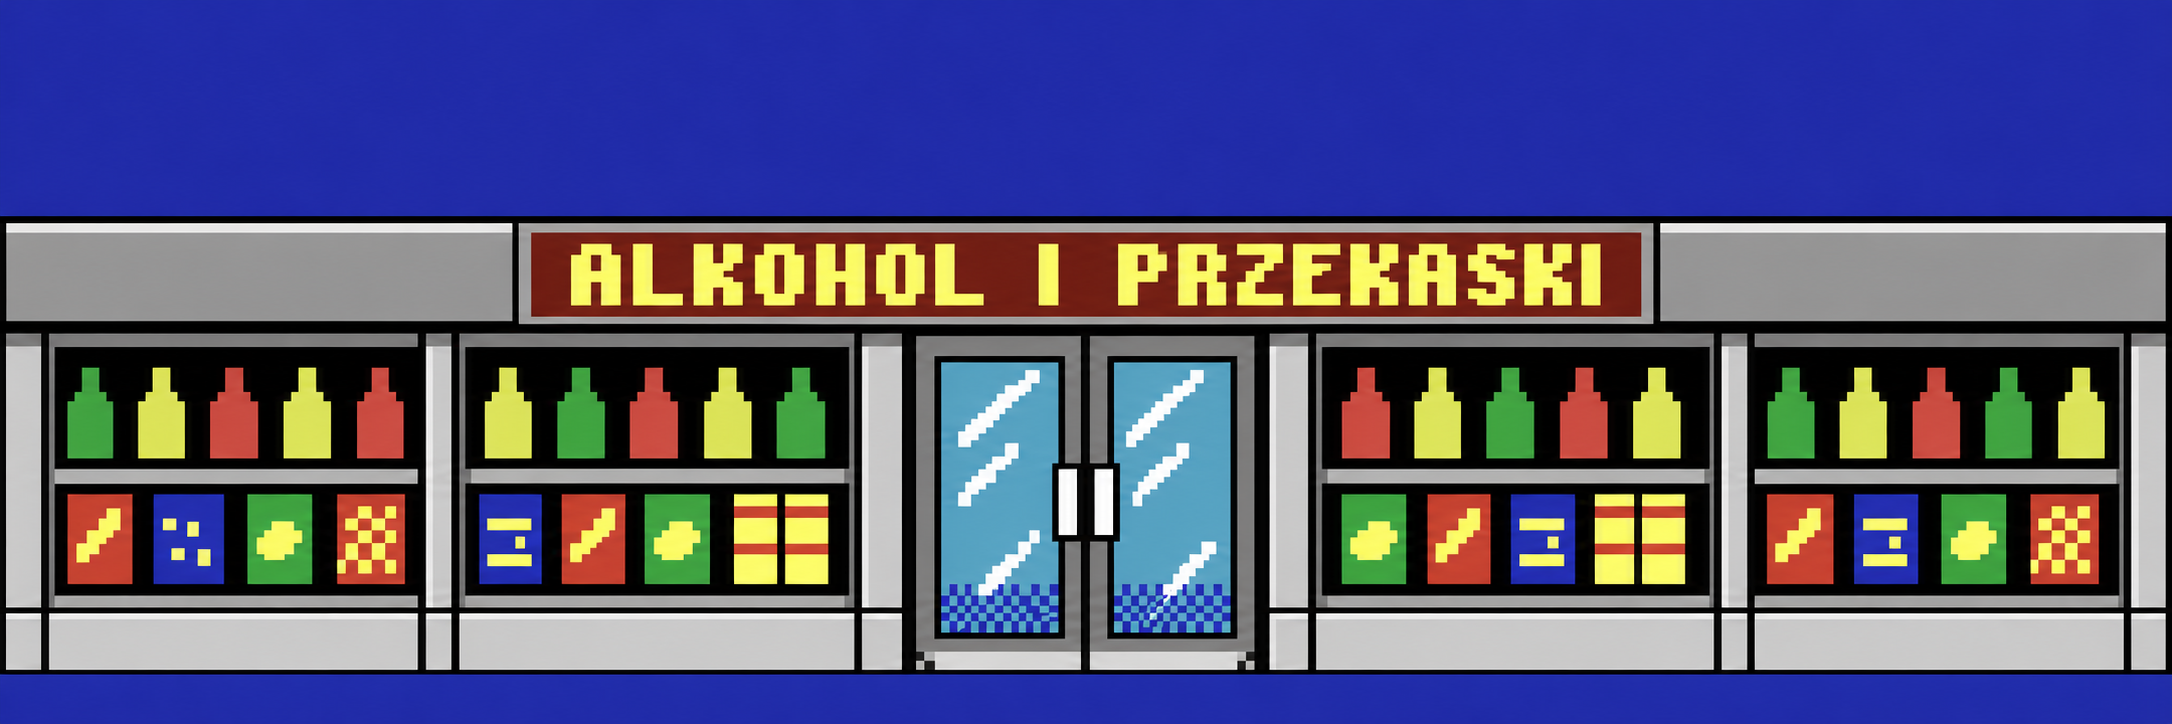
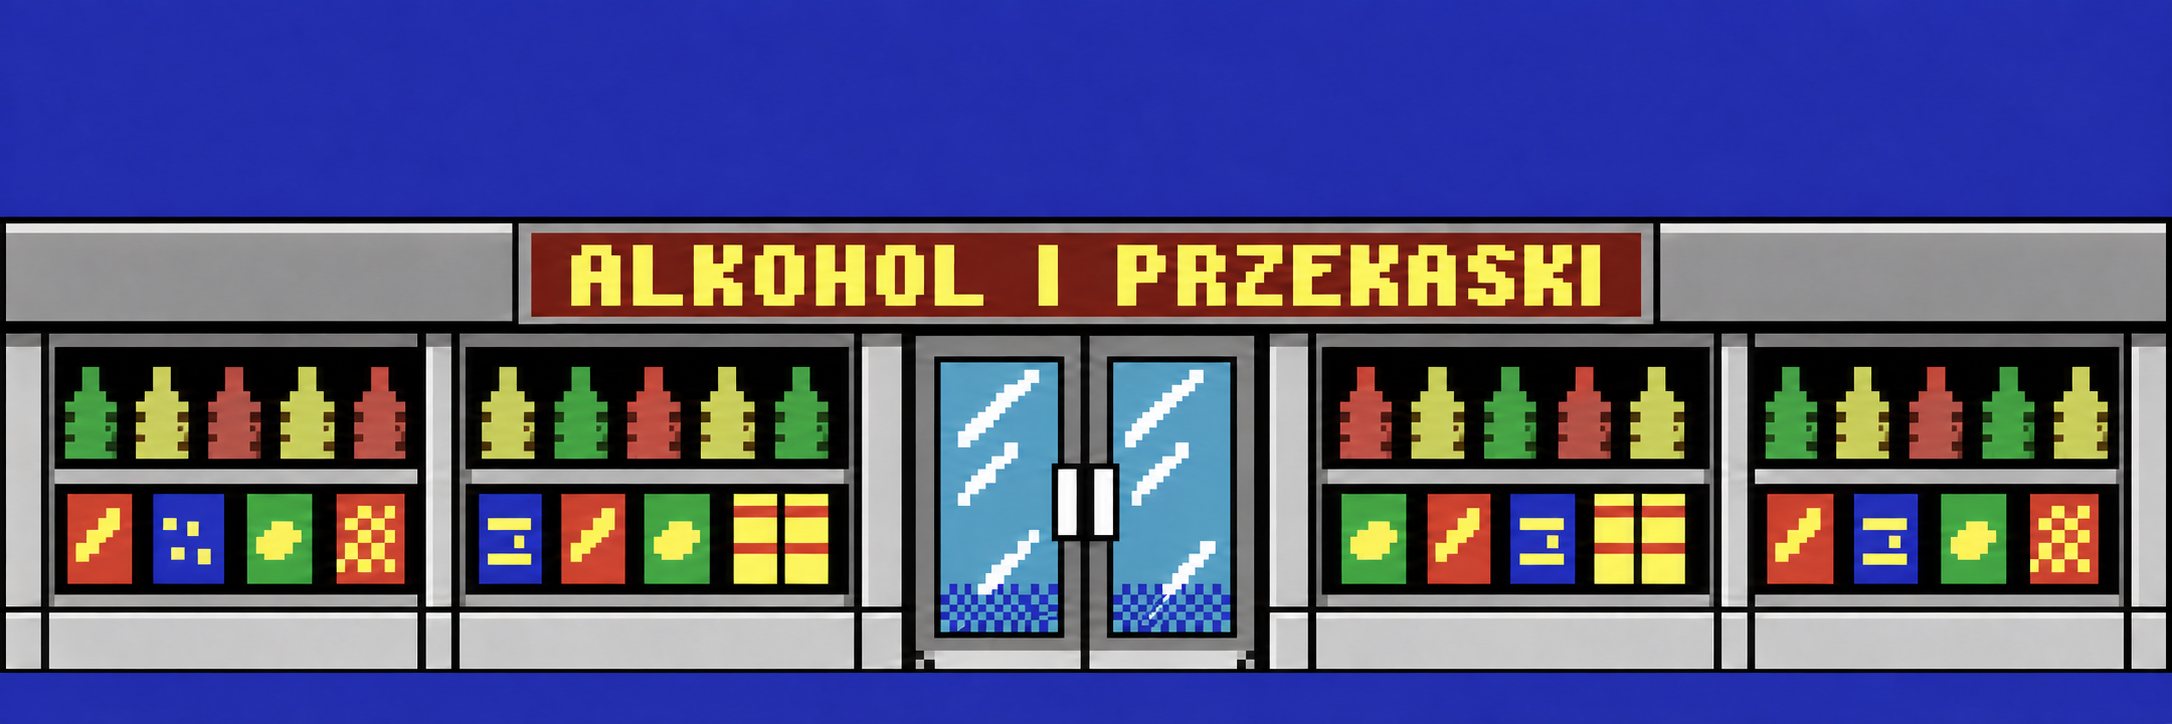
Fill the window and shade shop bottle edges
Remove the C64 border and letterbox margins.
Keep a 200-pixel raster height with the board aspect.
Map Gum and steering to the full viewport.
Add alternating dark pixels only at bottle sides.

diff --git a/Docs/ClassMap.html b/Docs/ClassMap.html
@@ -3,14 +3,14 @@
 <title>DUI — mapa klas</title>
 <style>body{font:16px/1.6 system-ui;max-width:1080px;margin:48px auto;padding:0 24px;color:#172338;background:#f6f8fa}a{color:#174ca0}table{border-collapse:collapse;width:100%;background:white}th,td{text-align:left;vertical-align:top;padding:12px 16px;border:1px solid #d9e0e8}code{background:#e6edf4;padding:2px 5px}h1,h2{line-height:1.25}.flow{background:#e6edf4;padding:20px;border-radius:8px}</style>
 <h1>DUI — mapa klas i przepływów</h1>
-<p>Aktualny stan: edukacyjna gra z płynnie skręcającą kolumną radiowozów za czerwonym autem gracza, podskakujących na krawężnikach, pulsującymi butelkami piwa i rozpryskiem piany na parkingu pod sklepem, bez menu głównego. Oprawa C64: 320×200, 16 kolorów i dwukolorowe wzory w teksturach. Działający host DesktopGL,
+<p>Aktualny stan: edukacyjna gra z płynnie skręcającą kolumną radiowozów za czerwonym autem gracza, podskakujących na krawężnikach, pulsującymi butelkami piwa i rozpryskiem piany na parkingu pod sklepem, bez menu głównego. Oprawa C64: 356×200, 16 kolorów i dwukolorowe wzory w teksturach. Działający host DesktopGL,
 wspólne źródła i zasoby, podstawy wejścia dotykowego. Hosty Android/iOS nie są jeszcze dodane.</p>
 <h2>Start i własność stanu</h2>
 <p class="flow"><a href="../DUI.Desktop/Program.cs">Program</a> →
 <a href="#DuiGame">DuiGame</a> → <a href="#Core">Core.ChangeScene</a> →
 <a href="#GameScene">GameScene.Initialize</a> → plansza i rozgrywka.</p>
 <p>Host wybiera backend MonoGame. <code>DUI.Game.projitems</code> włącza wspólne źródła
-oraz content do hosta. Core posiada scenę i usługi. DuiGame posiada C64Renderer i zwalnia jego dwa bufory 320×200; efekt palety należy do ContentManager gry. GameScene posiada stan sesji,
+oraz content do hosta. Core posiada scenę i usługi. DuiGame posiada C64Renderer i zwalnia jego dwa bufory 356×200; efekt palety należy do ContentManager gry. GameScene posiada stan sesji,
 wynik gry w promilach (decimal), ParkingLot, CarConvoy, BeerBottle, BeerBurst i UI. ParkingLot posiada mapę kafelkową, witrynę, ParkingGeometry i geometrię trawników; tekstury zwalnia ContentManager sceny. ConvoyMovement posiada kolejkę, pozy aut i czas symulacji; ConvoyTrail przechowuje ograniczoną historię drogi. CarConvoy posiada model, sprite gracza i radiowozu, PoliceLightbar oraz stan CarHop dla każdego auta; CarSway dodaje delikatne falowanie. CarHop wykrywa wjazd przodu na wyspę i oblicza skalę oraz uniesienie; UI prezentuje wynik i emituje intencje.</p>
 <h2>Przepływy użytkownika i relacje</h2>
 <ol>
@@ -83,14 +83,15 @@ Core nie aktualizuje sceny bez aktywności. OnActivated resetuje licznik czasu i
 rozgrywka czeka na RESUME. To nie zapis stanu po zabiciu procesu przez system.</li>
 <li><strong>Ekran C64:</strong> DuiGame.Draw → C64Renderer.BeginFrame → GameScene.Draw
 → C64Renderer.Present. Scena stosuje GameDisplay.RasterTransform: plansza 1280×720
-trafia do 320×180 z ramką po 10 pikseli. Gum rysuje na tym samym buforze 320×200
-przy Camera.Zoom=1. Wynik ma pozycję (20,15), a PAUSE odstęp 20 od prawej krawędzi i Y=12.
+wypełnia cały raster 356×200. Gum rysuje na tym samym buforze 356×200
+przy Camera.Zoom=1. Wynik ma pozycję (20,5), a PAUSE odstęp 20 od prawej krawędzi i Y=2.
 GameSceneUI.PositionPerMilleSymbol dopasowuje znak do szerokości liczby przy skali 0,25.
 Shader <a href="../DUI.Game/Content/Effects/c64Palette.fx">c64Palette.fx</a> wybiera
 najbliższy kolor z C64Palette po wszystkich mieszaniach alpha i efekcie pauzy.
 Nie tworzy ditheringu: wzory dwóch kolorów są zapisane w grafice parkingu i witryny.
-Drugi bufor 320×200 jest powiększany przez PointClamp do GameDisplay.OutputBounds,
-całkowitą wielokrotnością i z marginesami; mniejsze okna używają pomniejszenia.
+Drugi bufor 356×200 jest powiększany przez PointClamp do GameDisplay.OutputBounds,
+które obejmuje całe okno bez ramek, pasów ani przycinania planszy. Każda oś jest
+skalowana osobno; widok 16:9 zachowuje proporcje świata.
 DuiGame.UpdateDisplay ustawia Cursor.TransformMatrix=ScreenToRaster,
 a GameController mapuje mysz/dotyk przez ToGamePosition do planszy.
 UI i gesty korzystają więc z tej samej geometrii również po zmianie rozmiaru.
@@ -104,15 +105,15 @@ które zwalnia teksturę PoliceLightbar; DuiGame zwalnia bufory C64Renderer, a C
 </ol>
 <h2>Klasy i typy</h2>
 <table><thead><tr><th>Typ i źródło</th><th>Odpowiedzialność</th></tr></thead><tbody>
-<tr id="DuiGame"><td><a href="../DUI.Game/DuiGame.cs">DuiGame</a></td><td>Uruchamia GameScene bez menu; ustala 60 Hz, raster Gum 320×200 i transformację kursora. Posiada C64Renderer, obejmuje nim Draw i zwalnia bufory. Obsługuje utratę i odzyskanie aktywności.</td></tr>
+<tr id="DuiGame"><td><a href="../DUI.Game/DuiGame.cs">DuiGame</a></td><td>Uruchamia GameScene bez menu; ustala 60 Hz, raster Gum 356×200 i transformację kursora. Posiada C64Renderer, obejmuje nim Draw i zwalnia bufory. Obsługuje utratę i odzyskanie aktywności.</td></tr>
 <tr id="AudioController"><td><a href="../DUI.Game/Framework/Audio/AudioController.cs">AudioController</a></td><td>Zarządza muzyką i instancjami efektów dźwiękowych oraz pauzą po utracie aktywności.</td></tr>
 <tr id="Circle"><td><a href="../DUI.Game/Framework/Circle.cs">Circle</a></td><td>Okrągły obszar kolizji, z testem ścisłego przecięcia jak w tutorialu.</td></tr>
 <tr id="Core"><td><a href="../DUI.Game/Framework/Core.cs">Core</a></td><td>Właściciel usług MonoGame i aktywnej sceny. Aktualizuje wejście, audio i grę; zwalnia zasoby przy wyjściu.</td></tr>
 <tr id="AnimatedSprite"><td><a href="../DUI.Game/Framework/Graphics/AnimatedSprite.cs">AnimatedSprite</a></td><td>Przesuwa aktualną klatkę animacji na podstawie GameTime.</td></tr>
 <tr id="Animation"><td><a href="../DUI.Game/Framework/Graphics/Animation.cs">Animation</a></td><td>Lista klatek atlasu i czas każdej klatki.</td></tr>
-<tr id="GameDisplay"><td><a href="../DUI.Game/Framework/Graphics/GameDisplay.cs">GameDisplay</a></td><td>Mapuje planszę 1280×720 przez RasterTransform na 320×180 z ramką w rastrze 320×200. Resize wyznacza całkowite powiększenie i OutputBounds; ScreenToRaster mapuje kursor Gum, a ToGamePosition gesty na planszę. Małe okna są pomniejszane.</td></tr>
+<tr id="GameDisplay"><td><a href="../DUI.Game/Framework/Graphics/GameDisplay.cs">GameDisplay</a></td><td>Mapuje planszę 1280×720 przez RasterTransform na pełny raster 356×200. Resize dopasowuje OutputBounds do całego okna, osobno w obu osiach; ScreenToRaster mapuje kursor Gum, a ToGamePosition gesty na planszę. Małe okna są pomniejszane.</td></tr>
 <tr id="C64Palette"><td><a href="../DUI.Game/Framework/Graphics/C64Palette.cs">C64Palette</a></td><td>16 kolorów Pepto PAL w kolejności VIC-II. Udostępnia nieedytowalną paletę shaderowi i kolory świateł PoliceLightbar.</td></tr>
-<tr id="C64Renderer"><td><a href="../DUI.Game/Framework/Graphics/C64Renderer.cs">C64Renderer</a></td><td>Posiada dwa RenderTarget2D 320×200. BeginFrame czyści ramkę; Present ogranicza kompletną scenę i UI do C64Palette, następnie powiększa przez PointClamp. Nie dodaje ditheringu. Dispose zwalnia bufory; ContentManager posiada Effect.</td></tr>
+<tr id="C64Renderer"><td><a href="../DUI.Game/Framework/Graphics/C64Renderer.cs">C64Renderer</a></td><td>Posiada dwa RenderTarget2D 356×200. BeginFrame czyści bufor sceny; Present ogranicza kompletną scenę i UI do C64Palette, następnie powiększa przez PointClamp. Nie dodaje ditheringu. Dispose zwalnia bufory; ContentManager posiada Effect.</td></tr>
 <tr id="Sprite"><td><a href="../DUI.Game/Framework/Graphics/Sprite.cs">Sprite</a></td><td>Parametry rysowania regionu tekstury: pozycja, skala, obrót, kolor i warstwa.</td></tr>
 <tr id="TextureAtlas"><td><a href="../DUI.Game/Framework/Graphics/TextureAtlas.cs">TextureAtlas</a></td><td>Wczytuje definicję XML, teksturę, regiony i animacje; tworzy sprite’y.</td></tr>
 <tr id="TextureRegion"><td><a href="../DUI.Game/Framework/Graphics/TextureRegion.cs">TextureRegion</a></td><td>Prostokątny fragment atlasu wraz ze współrzędnymi UV i operacją rysowania.</td></tr>
@@ -138,10 +139,10 @@ które zwalnia teksturę PoliceLightbar; DuiGame zwalnia bufory C64Renderer, a C
 <tr id="CarPose"><td><a href="../DUI.Game/GameObjects/CarPose.cs">CarPose</a></td><td>Niezmienny środek auta w pikselach planszy, obrót w radianach oraz droga wzdłuż śladu głowy. Interpolacja uwzględnia zawijanie kąta.</td></tr>
 <tr id="ConvoyTrail"><td><a href="../DUI.Game/GameObjects/ConvoyTrail.cs">ConvoyTrail</a></td><td>Historia pozycji głowy indeksowana odległością. Wyszukiwanie binarne i interpolacja dla segmentów; zachowuje długość kolumny oraz zapas dla nowego auta. Kompaktuje bufor partiami. Brakujący początek historii przedłuża wstecz wzdłuż najstarszego kierunku.</td></tr>
 <tr id="ConvoyCollision"><td><a href="../DUI.Game/GameObjects/ConvoyCollision.cs">ConvoyCollision</a></td><td>Przecięcie ruchomych okręgów aut o promieniu 32 px w przestrzeni względnej, także między końcami podkroku. Granice parkingu sprawdza dla obróconego obrysu auta 74×36 px. IsOutsideParking przyjmuje CarPose, a skrajne współrzędne zależą od długości, szerokości oraz aktualnego kąta auta. IntersectsObstacle sprawdza obrócone auto i prostokąt bramy na czterech osiach separacji.</td></tr>
-<tr id="SwipeTracker"><td><a href="../DUI.Game/Input/SwipeTracker.cs">SwipeTracker</a></td><td>Rozpoznaje jeden kierunek na kontakt po przesunięciu o 32 jednostki planszy; pomija marginesy i pasek wyniku.</td></tr>
+<tr id="SwipeTracker"><td><a href="../DUI.Game/Input/SwipeTracker.cs">SwipeTracker</a></td><td>Rozpoznaje jeden kierunek na kontakt po przesunięciu o 32 jednostki planszy; pomija kafelki krawędziowe i pasek wyniku.</td></tr>
 <tr id="GameScene"><td><a href="../DUI.Game/Scenes/GameScene.cs">GameScene</a></td><td>Zarządza stanem Playing/Paused/GameOver, zderzeniami, wynikiem decimal w promilach (0,2 za butelkę, reset do 0), odrodzeniem i odbiciami butelki wewnątrz ParkingLot.BottleBounds, wybuchem piwa i panelami UI. Łączy ParkingLot z rysowaniem CarConvoy i kontrolą kolizji. Rysuje świat przez RasterTransform do bufora C64Renderer, a potem UI Gum.</td></tr>
 <tr id="AnimatedButton"><td><a href="../DUI.Game/UI/AnimatedButton.cs">AnimatedButton</a></td><td>Przycisk Gum z animowanym fokusem i grafiką atlasu, obsługujący mysz, dotyk, klawiaturę i pada.</td></tr>
-<tr id="GameSceneUI"><td><a href="../DUI.Game/UI/GameSceneUI.cs">GameSceneUI</a></td><td>Formatuje wynik z jedną cyfrą po przecinku (pl-PL), rysuje liczbę przez TextRuntime i cały znak ‰ przez jeden SpriteRuntime z per-mille.png. Dopasowuje pozycję znaku do szerokości liczby na stałym rastrze 320×200, z uwzględnieniem górnej ramki 10 px. Rysuje PAUSE, panel pauzy z RESUME i koniec gry z RETRY. Zdarzenia trafiają do GameScene.</td></tr>
+<tr id="GameSceneUI"><td><a href="../DUI.Game/UI/GameSceneUI.cs">GameSceneUI</a></td><td>Formatuje wynik z jedną cyfrą po przecinku (pl-PL), rysuje liczbę przez TextRuntime i cały znak ‰ przez jeden SpriteRuntime z per-mille.png. Dopasowuje pozycję znaku do szerokości liczby na stałym rastrze 356×200, bez ramki i marginesów renderowania. Rysuje PAUSE, panel pauzy z RESUME i koniec gry z RETRY. Zdarzenia trafiają do GameScene.</td></tr>
 </tbody></table>
 <h2>Zasoby samochodów</h2>
 <p>Gracz używa <a href="../DUI.Game/Content/Images/car.png">car.png</a>, a ogon
@@ -157,9 +158,10 @@ wykorzystuje <a href="../DUI.Game/Content/Images/c64-parking-atlas.png">atlas C6
 12 i 15 siatka pozioma, 13–14 zamknięta brama. Regiony mają 306×306 pikseli,
 odstęp 8 i początek (4,4), co pomija linie podziału arkusza.
 <a href="../DUI.Game/Content/Images/c64-storefront.png">Witryna C64</a> pokrywa dwa górne rzędy,
-a atlas.png nadal obsługuje font i UI. Kafelki są widoczne jako 20×20 pikseli,
-a witryna jako 320×40. Szachownice 2×2 z dwóch kolorów oraz rzadsze pikselowe akcenty
-stanowią część materiałów i cieni w teksturach. Oba warianty powstały przez edycję
+a atlas.png nadal obsługuje font i UI. Kafelki są widoczne jako około 22×22 piksele,
+a witryna jako 356×44. Szachownice 2×2 z dwóch kolorów oraz rzadsze pikselowe akcenty
+stanowią część materiałów i cieni w teksturach. Boczne krawędzie butelek w witrynie
+mają co drugi piksel ciemniejszy; środek sylwetki pozostaje jednolity. Oba warianty powstały przez edycję
 wbudowanym image_gen; oryginały pozostają materiałem źródłowym.
 Narożniki korzystają z górnych 100 wierszy kafelka 10 i prawej połowy
 kafelka 12. Oba fragmenty zachowują skalę atlasu, więc szyny i wzór siatki

diff --git a/DUI.Game/Framework/Graphics/GameDisplay.cs b/DUI.Game/Framework/Graphics/GameDisplay.cs
@@ -1,26 +1,25 @@
-using System;
 using Microsoft.Xna.Framework;
 
 namespace MonoGameLibrary.Graphics;
 
 /// <summary>
-/// Maps the fixed board through a 320x200 raster to the screen.
+/// Maps the fixed board through a 200-pixel-high raster onto the whole window.
 /// Positions and collision bounds remain in 1280 by 720 game coordinates.
 /// </summary>
 public sealed class GameDisplay
 {
     public const int Width = 1280;
     public const int Height = 720;
-    public const int RasterWidth = 320;
     public const int RasterHeight = 200;
-    public const int BorderHeight = 10;
-    public const float RasterScale = 0.25f;
+    // Round the board's 16:9 aspect up to a whole native pixel.
+    public const int RasterWidth = (Width * RasterHeight + Height - 1) / Height;
 
-    public static Matrix RasterTransform { get; } = Matrix.CreateScale(RasterScale) *
-        Matrix.CreateTranslation(0, BorderHeight, 0);
+    private static readonly Vector2 s_rasterScale = new(
+        RasterWidth / (float)Width, RasterHeight / (float)Height);
 
-    public float Scale { get; private set; } = RasterScale;
-    public Vector2 Offset { get; private set; } = new(0, BorderHeight);
+    public static Matrix RasterTransform { get; } = Matrix.CreateScale(
+        s_rasterScale.X, s_rasterScale.Y, 1);
+
     public Matrix Transform { get; private set; } = RasterTransform;
     public Rectangle OutputBounds { get; private set; } = new(0, 0, RasterWidth, RasterHeight);
     public Matrix ScreenToRaster { get; private set; } = Matrix.Identity;
@@ -32,27 +31,16 @@ public sealed class GameDisplay
             return;
         }
 
-        float fit = Math.Min(width / (float)RasterWidth, height / (float)RasterHeight);
-        float pixelScale = fit >= 1 ? MathF.Floor(fit) : fit;
-        int outputWidth = Math.Max(1, (int)(RasterWidth * pixelScale));
-        int outputHeight = Math.Max(1, (int)(RasterHeight * pixelScale));
-        OutputBounds = new Rectangle((width - outputWidth) / 2, (height - outputHeight) / 2,
-            outputWidth, outputHeight);
-
-        // Derive input mapping from the exact destination rectangle, including
-        // rounding on windows smaller than the native raster.
-        Matrix rasterToScreen = Matrix.CreateScale(outputWidth / (float)RasterWidth,
-            outputHeight / (float)RasterHeight, 1) *
-            Matrix.CreateTranslation(OutputBounds.X, OutputBounds.Y, 0);
-        ScreenToRaster = Matrix.Invert(rasterToScreen);
-        Transform = RasterTransform * rasterToScreen;
-        Scale = RasterScale * pixelScale;
-        Offset = Vector2.Transform(Vector2.Zero, Transform);
+        // The whole board stays visible without decorative borders or bars.
+        // Map each axis independently so drawing and input agree at any size.
+        OutputBounds = new Rectangle(0, 0, width, height);
+        ScreenToRaster = Matrix.CreateScale(
+            RasterWidth / (float)width, RasterHeight / (float)height, 1);
+        Transform = Matrix.CreateScale(width / (float)Width, height / (float)Height, 1);
     }
 
     public Vector2 ToGamePosition(Vector2 screenPosition)
     {
-        Vector2 rasterPosition = Vector2.Transform(screenPosition, ScreenToRaster);
-        return (rasterPosition - new Vector2(0, BorderHeight)) / RasterScale;
+        return Vector2.Transform(screenPosition, ScreenToRaster) / s_rasterScale;
     }
 }

diff --git a/DUI.Tests/Program.cs b/DUI.Tests/Program.cs
@@ -13,7 +13,7 @@ var tests = new (string Name, Action Run)[]
     ("Swipe emits once at the threshold and accepts the next contact", Swipe),
     ("Swipe ignores the score bar and margins", SwipeMargins),
     ("Cancelling a swipe cannot steer after resume", CancelSwipe),
-    ("Wide and portrait screens preserve geometry and input mapping", DisplayMapping),
+    ("Wide and portrait screens keep the board visible and map input", DisplayMapping),
     ("Circle contact uses the strict intersection rule", CircleCollision)
 }.Concat(MovementTests.Cases)
     .Concat(CarAnimationTests.Cases)
@@ -78,12 +78,11 @@ static void DisplayMapping()
         Vector2 gamePosition = new(200, 300);
         Vector2 screenPosition = Vector2.Transform(gamePosition, display.Transform);
         Equal(gamePosition, display.ToGamePosition(screenPosition));
-        Check(GameDisplay.Width * display.Scale <= size.X);
-        Check(GameDisplay.Height * display.Scale <= size.Y);
+        Check(display.OutputBounds == new Rectangle(0, 0, size.X, size.Y));
     }
 
     display.Resize(0, 0);
-    Check(display.Scale > 0);
+    Check(display.OutputBounds == new Rectangle(0, 0, 1280, 720));
 }
 
 static void CircleCollision()

diff --git a/DUI.Game/Framework/Graphics/C64Renderer.cs b/DUI.Game/Framework/Graphics/C64Renderer.cs
@@ -30,12 +30,12 @@ public sealed class C64Renderer : IDisposable
     public void BeginFrame()
     {
         _graphicsDevice.SetRenderTarget(_scene);
-        _graphicsDevice.Clear(C64Palette.LightBlue);
+        _graphicsDevice.Clear(C64Palette.Black);
     }
 
     public void Present(SpriteBatch spriteBatch, GameDisplay display)
     {
-        // Quantize only 320x200 pixels, including alpha blends and the UI.
+        // Quantize only the native raster pixels, including alpha blends and the UI.
         // Running this pass after upscaling would multiply its GPU cost.
         _graphicsDevice.SetRenderTarget(_indexedFrame);
         spriteBatch.Begin(blendState: BlendState.Opaque,
@@ -44,7 +44,6 @@ public sealed class C64Renderer : IDisposable
         spriteBatch.End();
 
         _graphicsDevice.SetRenderTarget(null);
-        _graphicsDevice.Clear(C64Palette.Blue);
         spriteBatch.Begin(blendState: BlendState.Opaque, samplerState: SamplerState.PointClamp);
         spriteBatch.Draw(_indexedFrame, display.OutputBounds, Color.White);
         spriteBatch.End();

diff --git a/DUI.Game/UI/GameSceneUI.cs b/DUI.Game/UI/GameSceneUI.cs
@@ -97,10 +97,10 @@ public class GameSceneUI : ContainerRuntime
     public void Update(GameTime gameTime)
     {
         _scoreText.X = 20;
-        _scoreText.Y = 5 + GameDisplay.BorderHeight;
+        _scoreText.Y = 5;
         PositionPerMilleSymbol();
         _pauseButton.X = -20;
-        _pauseButton.Y = 2 + GameDisplay.BorderHeight;
+        _pauseButton.Y = 2;
         Gum.GumService.Default.Update(gameTime);
     }
 

diff --git a/DUI.Game/Input/SwipeTracker.cs b/DUI.Game/Input/SwipeTracker.cs
@@ -15,7 +15,7 @@ public sealed class SwipeTracker
 
     public void Begin(Vector2 position)
     {
-        // Reserve the top wall for score and pause; ignore letterbox margins.
+        // Reserve the edge tiles for the fence and the top HUD.
         _tracking = position.X >= 80 && position.X < 1200 &&
             position.Y >= 80 && position.Y < 640;
         _origin = position;

diff --git a/README.md b/README.md
@@ -24,18 +24,20 @@ tak jak w projekcie źródłowym.
 
 ## Oprawa C64
 
-Cała klatka, łącznie z UI, ma **320×200 pikseli**. Plansza 1280×720 jest
-rysowana jako 320×180 z ramką po 10 pikseli u góry i dołu. `PointClamp`
-powiększa obraz całkowitą wielokrotnością, z wyśrodkowaniem w oknie;
-jedynie ekran mniejszy niż 320×200 wymaga pomniejszenia. Kafelek ma na tej
-siatce 20×20 pikseli. Fizyka, prędkość i granice kolizji pozostają w jednostkach
-planszy, niezależnie od rozmiaru okna.
+Cała klatka, łącznie z UI, ma **356×200 pikseli** — szerokość wynika
+z proporcji planszy 1280×720, zaokrąglonych do pełnego piksela. Plansza
+wypełnia cały raster i całe okno, bez ramki i pasów. `PointClamp` skaluje
+obraz bez wygładzania. Kafelek zajmuje około 22×22 piksele. Przy innych
+proporcjach okna obraz dopasowuje się osobno w obu osiach, pozostawiając
+całą planszę widoczną; dla naturalnych proporcji najlepszy jest widok 16:9.
+Fizyka, prędkość i granice kolizji pozostają w jednostkach planszy.
 
 `C64Palette` definiuje 16 kolorów w wariancie
 [Pepto PAL używanym przez VICE](https://raw.githubusercontent.com/VICE-Team/svn-mirror/main/vice/data/C64/pepto-pal.vpl).
 Nowe grafiki parkingu i witryny mają uproszczone kształty oraz wzory
 z dwóch kolorów: szachownice 2×2 i rzadsze pikselowe akcenty w cieniach
-oraz na powierzchniach. Wzory są częścią tekstur. Końcowy shader wyłącznie
+oraz na powierzchniach. Boki butelek w witrynie mają naprzemienne ciemniejsze
+piksele, a ich środki pozostają jednolite. Wzory są częścią tekstur. Końcowy shader wyłącznie
 dopasowuje kolory po mieszaniu przezroczystości i wygaszaniu do tej palety;
 nie nakłada ditheringu na ekran. To stylizacja, bez emulowania ograniczeń
 trybów graficznych VIC-II.
@@ -127,9 +129,9 @@ się standardowym przyciskiem systemu.
   krawężnika przez jego przód; renderowanie korzysta z czasu modelu ruchu.
 - `BeerBottle` — ruch i pulsowanie butelki; `BeerBurst` — krótkotrwałe
   krople piwa i piana, rysowane prostymi figurami pikselowymi.
-- `GameDisplay` — rozdziela współrzędne planszy, rastra 320×200 i okna.
-  Odwrotna transformacja obsługuje gesty oraz kursor Gum, także w marginesach.
-- `C64Renderer` — posiada dwa bufory 320×200: scenę z UI i klatkę ograniczoną
+- `GameDisplay` — rozdziela współrzędne planszy, rastra 356×200 i okna.
+  Odwrotna transformacja obsługuje gesty oraz kursor Gum, aż do krawędzi widocznej planszy.
+- `C64Renderer` — posiada dwa bufory 356×200: scenę z UI i klatkę ograniczoną
   do palety `C64Palette`. `DuiGame` obejmuje nim rysowanie sceny i zwalnia
   bufory przy wyjściu; efekt należy do `ContentManager`. Gum rysuje przy
   zoomie 1 na tej samej siatce, więc tekst pozostaje pikselowy.
@@ -139,7 +141,7 @@ się standardowym przyciskiem systemu.
 ## Mobile
 
 Kod uwzględnia gesty dotykowe, pauzę po utracie aktywności oraz stałą
-planszę 1280 × 720, rysowaną przez raster 320×200 z zachowaniem proporcji. Zmiana rozmiaru
+planszę 1280 × 720, rysowaną przez raster 356×200 dopasowany do całego okna. Zmiana rozmiaru
 ekranu nie zmienia zasad, geometrii kolizji ani prędkości gry. Aktualizacje
 odbywają się w stałym rytmie 60 Hz, także na ekranach o wyższym odświeżaniu.
 
